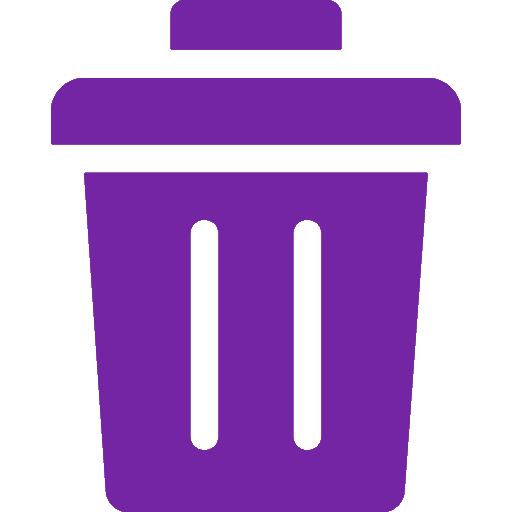
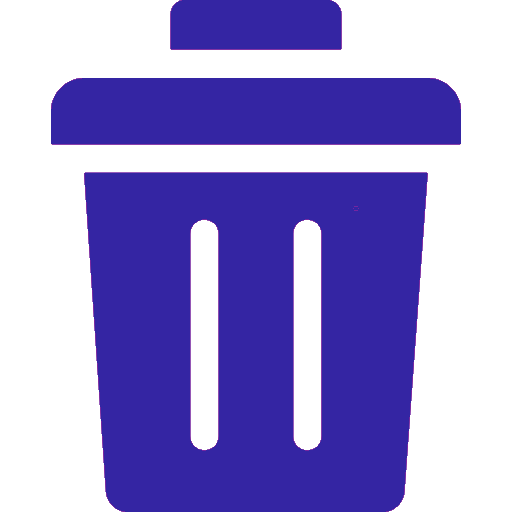
change: buttons style

diff --git a/frontend/src/app/components/cart/cart.component.html b/frontend/src/app/components/cart/cart.component.html
@@ -19,10 +19,10 @@
             <div class="checkout" *ngIf="cartItems.length > 0">
                 <div class="total">Total:</div>
                 <div class="price">{{ totalPrice }}$</div>
-                <app-button 
-                [text]="isLoggedIn ? 'Checkout' : 'Log In & Checkout'" 
-                type="BUY" 
-                (click)="isLoggedIn ? pay() : goToLogin()"></app-button>
+                <button mat-raised-button color="primary"  
+                (click)="isLoggedIn ? pay() : goToLogin()">
+                    {{ isLoggedIn ? 'Checkout' : 'Log In & Checkout' }}
+                </button>
             </div>
         </div>
     </section>

diff --git a/frontend/src/app/components/course-details/course-details.component.html b/frontend/src/app/components/course-details/course-details.component.html
@@ -46,11 +46,9 @@
       <div class="buttons-wrapper">
         <app-price *ngIf="this.course" [price]="this.course.price"></app-price>
         <div class="btn">
-          <app-button
-            [text]="isInCart ? 'Go to Cart' : 'Add to Cart'"
-            [type]="'BUY'"
-            (buttonClick)="isInCart ? goToCart() : addToCart()"
-          ></app-button>
+          <button mat-raised-button color="primary" (click)="isInCart ? goToCart() : addToCart()">
+            {{ isInCart ? 'Go to Cart' : 'Add to Cart' }}
+          </button>
         </div>
       </div>
     </div>

diff --git a/frontend/src/app/components/course-display/course-display.component.html b/frontend/src/app/components/course-display/course-display.component.html
@@ -20,7 +20,9 @@
         <form>
             <textarea [(ngModel)]="newCommentContent" name="commentContent" placeholder="Add a comment" required></textarea>
             <div class="submit-button">
-              <app-button text="Submit" type="SUBMIT" (click)="addComment()"></app-button>
+              <button mat-raised-button color="primary" (click)="addComment()">
+                Submit
+              </button>
             </div>
         </form>
       </div>

diff --git a/frontend/src/app/components/cart/cart.component.css b/frontend/src/app/components/cart/cart.component.css
@@ -15,13 +15,19 @@ h1 {
 
 .checkout {
     margin-right: 170px;
-    width: 250px;
+    width: 15%;
+}
+
+.checkout button {
+    width: 100%;
+    height: 40px;
 }
 
 .total {
     color: rgb(90, 89, 89);
     font-weight: bold;
     margin-bottom: 10px;
+    font-size: 18px;
 }
 
 .price {

diff --git a/frontend/src/app/components/course-details/course-details.component.css b/frontend/src/app/components/course-details/course-details.component.css
@@ -71,10 +71,14 @@ a {
 }
 
 .btn {
-  margin-top: 10px;
+  margin-top: 20px;
   height: 40px;
-  width: 90%;
 }
+
+.btn button {
+  width: 100%;
+}
+
 .course-image {
   width: 300px;
   height: 200px;

diff --git a/frontend/src/app/components/cart-item/cart-item.component.css b/frontend/src/app/components/cart-item/cart-item.component.css
@@ -21,7 +21,7 @@
 
 .price {
     margin-left: auto; 
-    color: #7325a3;
+    color: #3425a3;
     font-weight: bold;
     font-size: 17px;
 }
